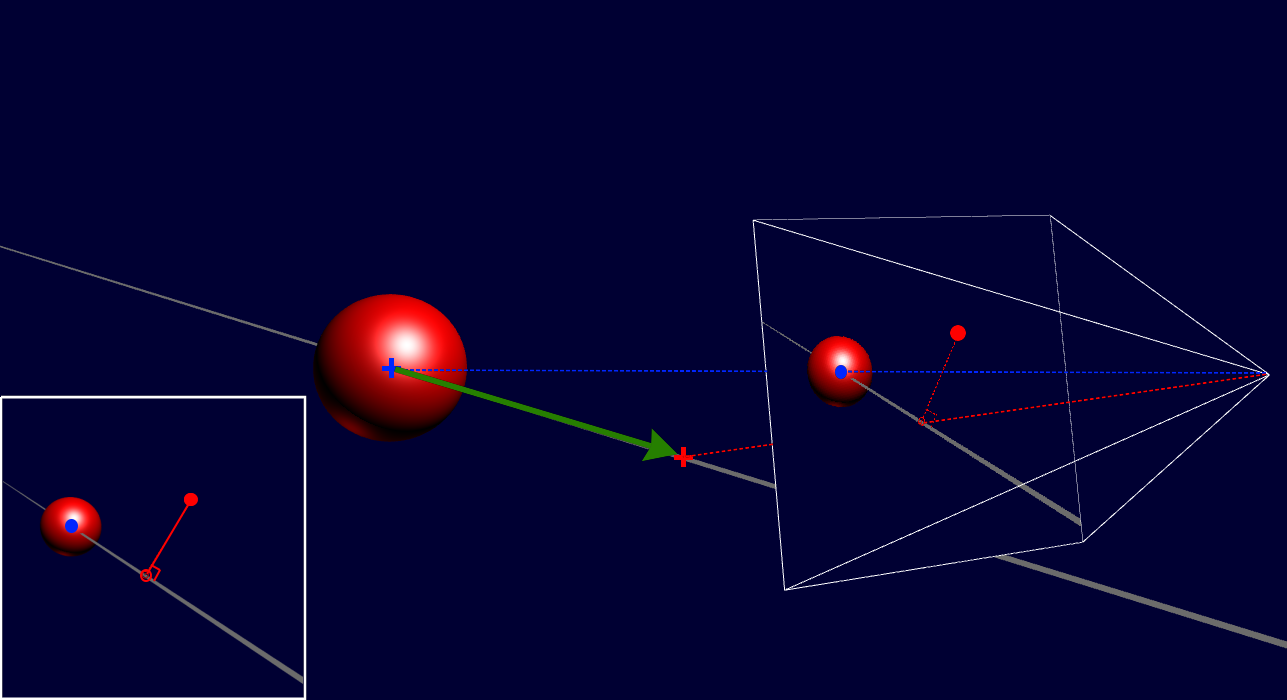
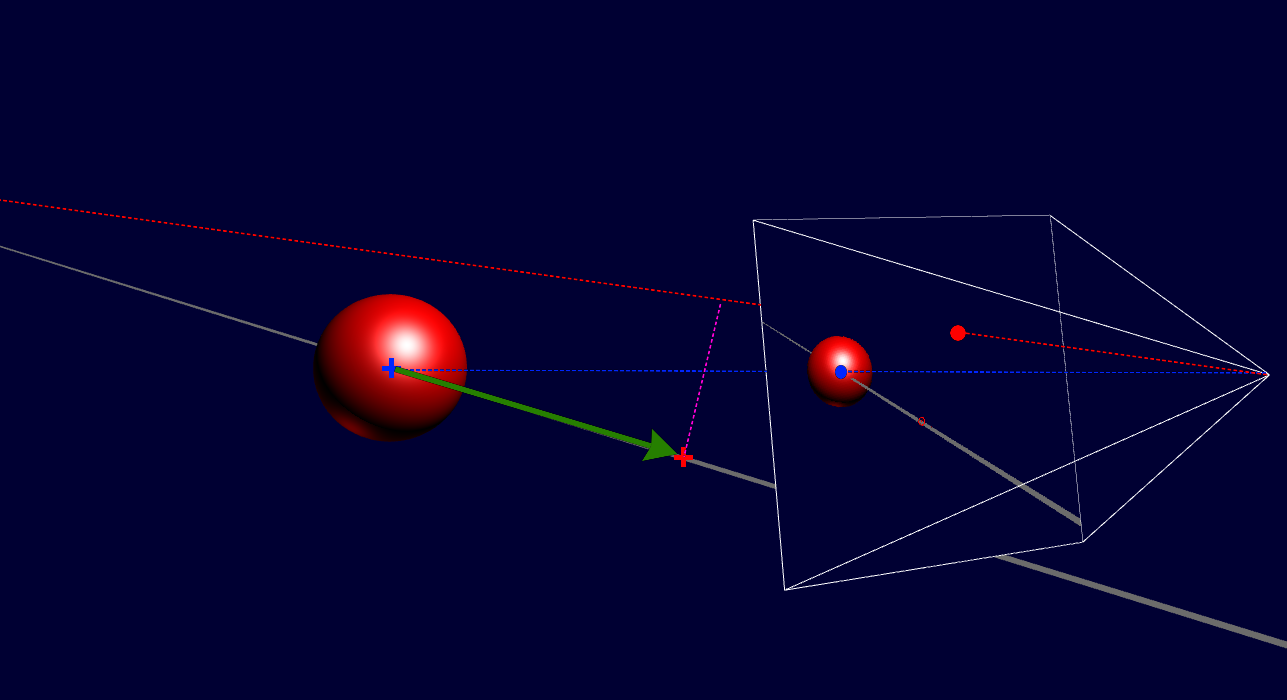
Update manipulators post
Fix errors in single-axis translation

diff --git a/_posts/2018-06-27-translate-rotate-and-scale-manipulators-in-3d-modelling-programs.md b/_posts/2018-06-27-translate-rotate-and-scale-manipulators-in-3d-modelling-programs.md
@@ -123,17 +123,17 @@ projected onto the plane (blue cross) going through the object center, with norm
 The mouse release point (red circle) is similarly projected onto the plane (red cross). The final translation (green arrow) is the vector between the blue cross and the red cross." %}
 
 For single-axis translations, the 3D axis of translation determines a 2D line on the screen.
-We don't want to force the user to keep their mouse on this line, so we instead project
-the mouse position onto the 2D line, where the 2D line is formed from the projection of the
-start point onto the screen plane (*o*) and the projection of the axis vector onto the screen plane (*v*). This projection is really just finding the nearest
-point on the line to the mouse release point; if we represent this nearest point parametrically, *p = o + vt*,
-then it is straightforward to then use the same *t* to determine the
-corresponding 3D point on the axis. We set the translation to be the vector between this point and
-the originally clicked 3D point.
+We don't want to force the user to keep their mouse on this line, so we find the closest point to the
+camera ray through the mouse position that lies on the axis of translation. This involves a bit of geometry (which I won't get into
+here) using the fact that the segment representing the closest distance between two lines
+is perpendicular to both lines. A reference can be found in [Distance between Lines](http://geomalgorithms.com/a07-_distance.html).
+Once we've computed the closest point to the camera ray on the axis of translation,
+we set the translation to be the vector between this point and the originally clicked 3D point.
 (Observation: Unity doesn't follow this "keep things under the mouse cursor" method for single-axis translations - it uses some kind of fixed scale)
 
 {% include image.html image="posts/manipulators/diagram_singleaxis.png" caption="Single-axis translation. The initially clicked point (blue circle) corresponds to
-the origin of the object to be manipulated (blue cross). The axis of translation (defined by which arrow on the manipulator was clicked) is projected into 2D screen coordinates (inset)), and the mouse release point (red solid circle) is first projected onto this line, resulting in the red outlined circle. This point is then projected back into 3D (red cross).
+the origin of the object to be manipulated (blue cross). The mouse position (red circle) defines to a camera ray (red dotted line). The smallest distance between
+the two lines (camera ray and axis of translation) is shown by the magenta dotted line; the closest point on the axis of translation is given by the red cross.
 The final translation (green arrow) is the vector between the blue cross and the red cross."%}
 
 For single-axis and double-axis translations, you can run into some difficulties when an axis
@@ -286,3 +286,7 @@ controllers to make VR editing modes
 ([Unreal Engine VR Editor](https://docs.unrealengine.com/latest/INT/Engine/Editor/VR/),
 [Unity EditorVR](https://blogs.unity3d.com/2016/12/15/editorvr-experimental-build-available-today/),
 [Sixense MakeVR](https://www.viveport.com/apps/23d40515-641c-4adb-94f5-9ba0ed3deed5)), which is really exciting and bodes well for the future of 3D modelling.
+
+---
+
+###### (02/12/2021) Fixed some errors in single-axis translation. Credit to Jakub Jeziorski for pointing them out. ######
